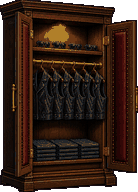
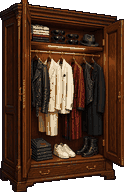
The master suite: group the furniture, and a rug worth having
The bedroom read as four things spaced out along a wall. The nightstand with the
champagne moves to 1750, hard against the footboard, and the wardrobe follows it to
1688 - which is as close as it can get, because the window jamb starts at 1723 and a
wardrobe standing in front of the corner glass looks like a mistake. Their lamps and
glows move with them.

The wardrobe is regenerated with a varied wardrobe rather than six identical waistcoats:
a leather biker jacket, a cream double breasted suit, a white dinner jacket, a burgundy
robe, an overcoat, shirts, shades, a fedora, trainers and boots.

The rug is an oxblood Persian with a gold medallion and an ivory border, and it is 140
logical wide against the old 96. Note it is sized by HEIGHT in process_props.py, so 26
is what produces 140 across - setting the width there does nothing. Deep colour was the
right call over the white sheepskin: the floor is polished black granite and a warm rich
rug is the only thing in the room that puts colour on it.

diff --git a/js/hub.js b/js/hub.js
@@ -129,9 +129,10 @@ const LAIR_ART = [
   // the master suite. The rug lies on the floor, so it sits forward of the wall base and
   // CHAD walks over it; everything else stands against the panelling.
   { art: 'lair_bed_fire', x: FIREPLACE.x, y: FIREPLACE.y, w: 20, h: 26 },
-  { art: 'lair_bed_rug', x: 1564, y: WALL_BASE + 24, w: 98, h: 14 },
-  { art: 'lair_bed_wardrobe', x: 1651, y: WALL_BASE, w: 69, h: 96 },
-  { art: 'lair_bed_nightstand', x: 1706, y: WALL_BASE, w: 33, h: 40 },
+  { art: 'lair_bed_rug', x: 1560, y: WALL_BASE + 30, w: 140, h: 26 },
+  // as close to the bed as the wall allows - the window jamb starts at 1723
+  { art: 'lair_bed_wardrobe', x: 1688, y: WALL_BASE, w: 62, h: 96 },
+  { art: 'lair_bed_nightstand', x: 1750, y: WALL_BASE, w: 33, h: 40 },   // beside the footboard
 ];
 // The lounge is a pair: the same sofa empty and with CHAD sitting in it, registered on
 // the sofa's own foot by tools/build_lair_extras.py. His boots hang below the sofa
@@ -513,7 +514,7 @@ export const HUB_STAGE = {
     { key: 'bg_lair_sky_near', par: NEAR_PAR },
   ],
   music: 'lair', bossMusic: null, boss: null,
-  lamps: [60, 395, 1100, 1564, 1706], lampCol: '255,140,60', lampA: 0.09,
+  lamps: [60, 395, 1100, 1564, 1750], lampCol: '255,140,60', lampA: 0.09,
   rim: null, grade: '150,80,220', gradeA: 0.05,
   moteCount: 34, moteStyle: 'dust',
   // the plate lights the alcove and the tank; these are only their spill on the floor
@@ -528,8 +529,8 @@ export const HUB_STAGE = {
     // the master suite. The fire has its own breathing light in drawFirelight; these are
     // the standing lamps, without which the walk from the wardrobe to the bed is unlit.
     { x: 1472, y: 130, r: 46, col: '255,190,110', a: 0.15 },
-    { x: 1651, y: 140, r: 38, col: '255,200,130', a: 0.12 },
-    { x: 1706, y: 158, r: 40, col: '255,180,120', a: 0.17 },
+    { x: 1688, y: 140, r: 38, col: '255,200,130', a: 0.12 },
+    { x: 1750, y: 158, r: 40, col: '255,180,120', a: 0.17 },
   ],
   props: [], birds: [], ambience: [], emitters: [], waves: [],
   fg: [{ art: 'fg_table', x: 300, y: 278 }, { art: 'fg_lamp', x: 640, y: 284 },

diff --git a/tools/process_props.py b/tools/process_props.py
@@ -61,7 +61,7 @@ LAIR = {
     "bed_wardrobe": (60, 96),
     "bed_nightstand": (44, 40),
     "bed_fire": (30, 26),
-    "bed_rug": (96, 14),
+    "bed_rug": (140, 26),   # sized by HEIGHT here, so 26 is what gives 140 across
 }
 
 
